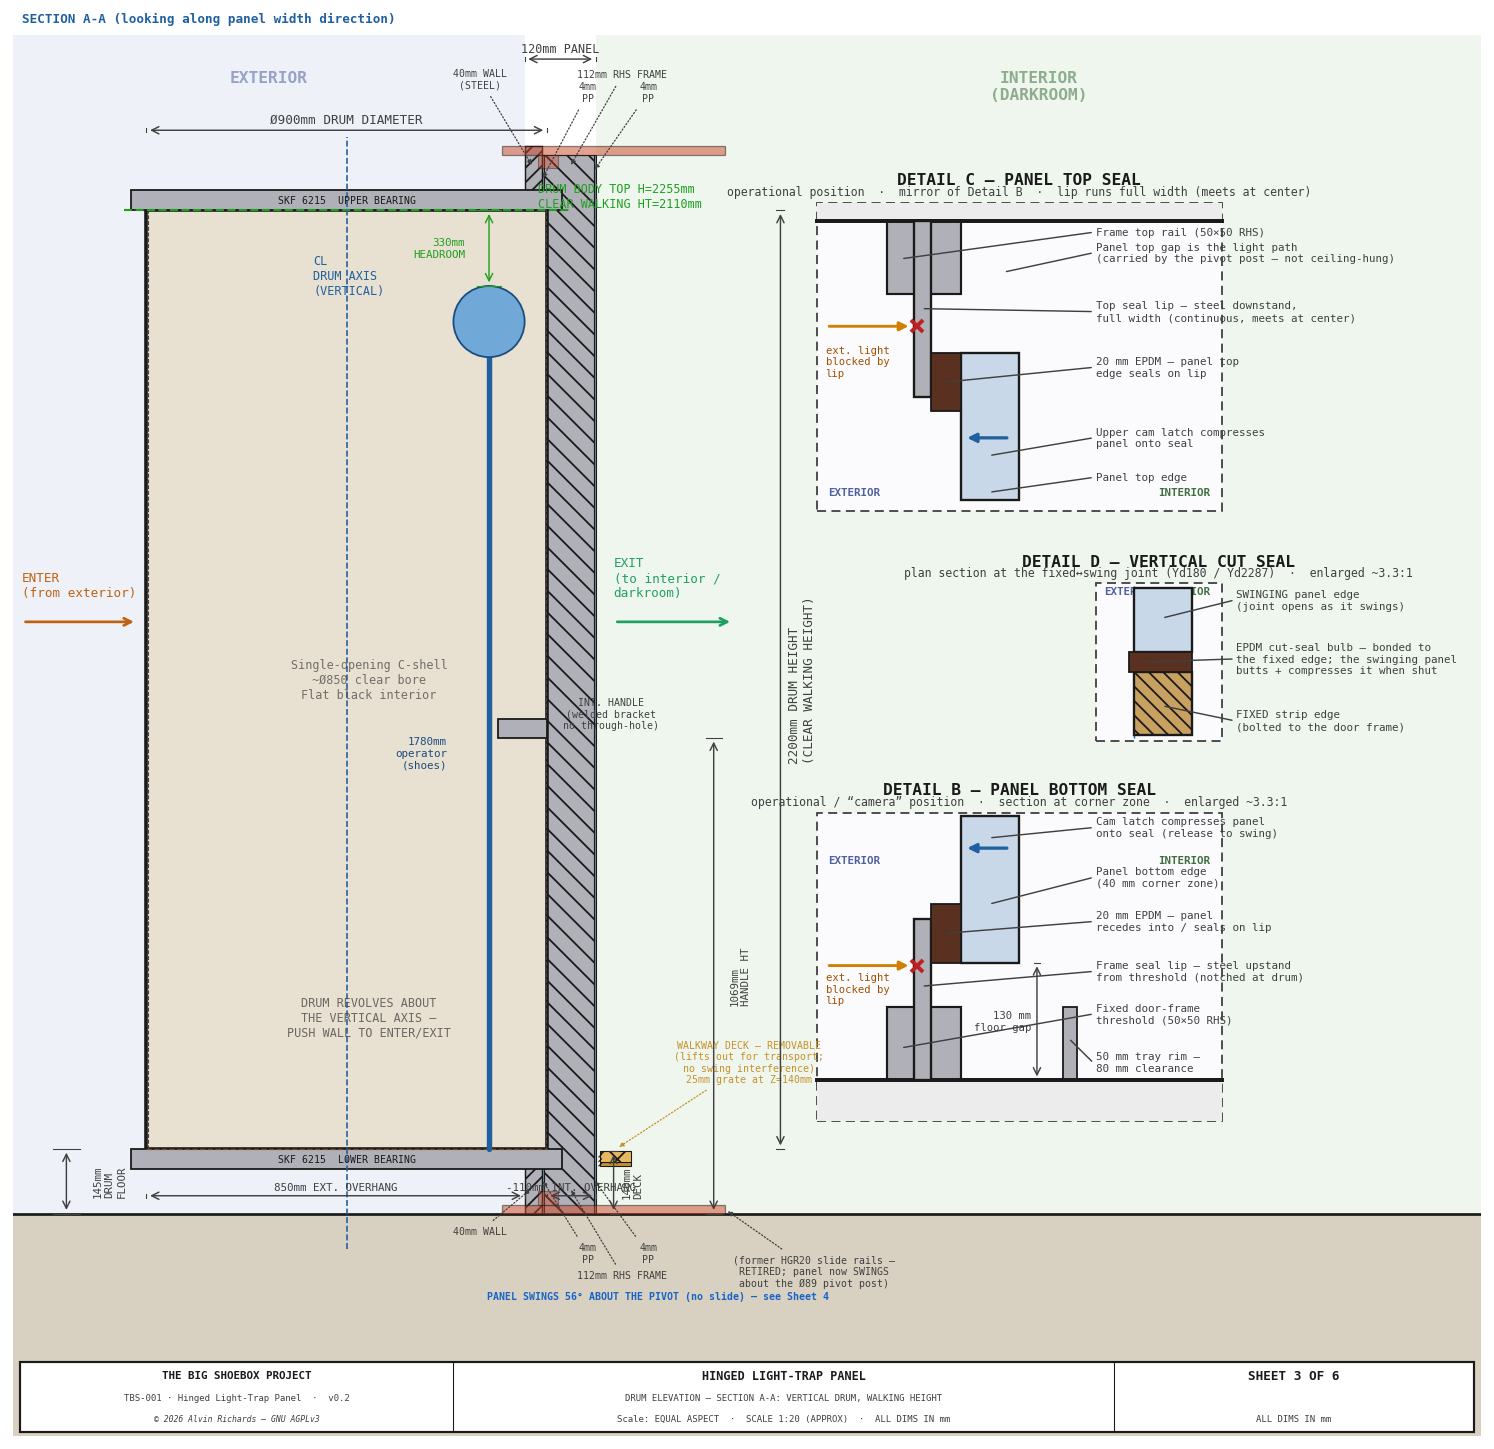
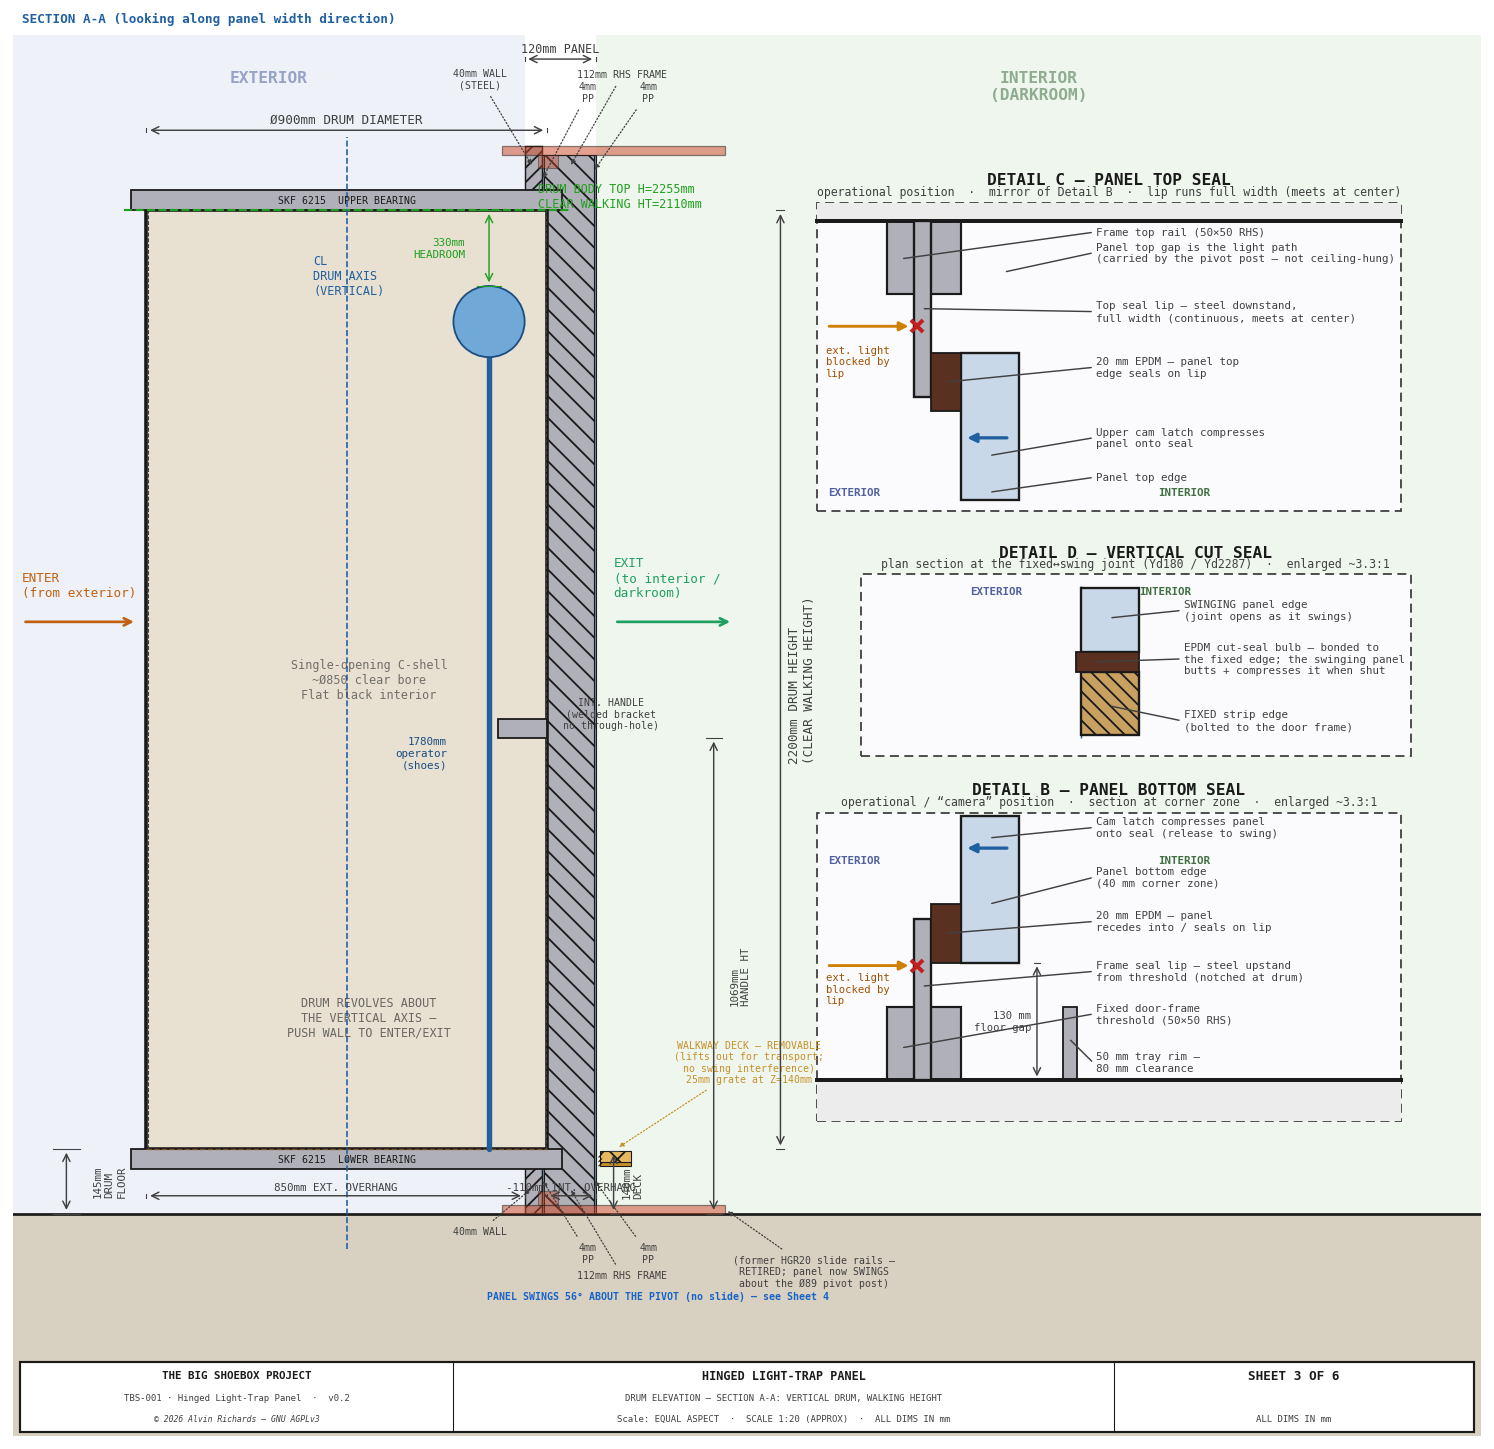
Tidy labels

Changed region(s): [[0.585, 0.3727, 0.9545, 0.559], [0.5542, 0.1242, 0.9237, 0.1553]]

diff --git a/src/generators/generate_hingepanel_diagram.py b/src/generators/generate_hingepanel_diagram.py
@@ -244,7 +244,7 @@ def sheet1():
     PIVOT_PX = PW + 35    # far-edge pivot post (just past the panel right edge)
     ax.add_patch(Rectangle((PIVOT_PX - 20, 0), 40, PH,
                             fc="#5A5AA0", ec=C_OUT, lw=1.2, zorder=3, alpha=0.85))
-    leader(ax, (PIVOT_PX + 20, PH * 0.55), (PIVOT_PX + 225, PH / 2),
+    leader(ax, (PIVOT_PX + 20, PH * 0.55), (PIVOT_PX + 250, PH / 2),
            "PIVOT POST\nØ89 CHS\n(vertical swing axis)",
            col="#5A5AA0", fs=6, fw="bold")
     # swing direction arc on the near (left) side
@@ -315,7 +315,7 @@ def sheet1():
     # Panel width
     draw_dim_h(ax, 0, PW, PH + 200, f"{PW}mm  (CONTAINER INTERIOR WIDTH)", offset=20, fs=7, font=FONT)
     # Panel height
-    draw_dim_v(ax, PW + 75, 0, PH, f"{PH}mm", offset=-25, fs=7, right=True, font=FONT)
+    draw_dim_v(ax, PW + 75, 0, PH, f"{PH}mm", offset=55, fs=7, right=True, font=FONT)
     # Drum diameter
     draw_dim_h(ax, DX, DX + DRUM_D, DY_TOP + 170, f"Ø{DRUM_D}mm DRUM", offset=30, fs=7, font=FONT)    # Drum clear height
     draw_dim_v(ax, DX - 200, DY_BOT, DY_TOP, f"{DRUM_H}mm CLEAR HEIGHT", offset=45, fs=7, right=True, font=FONT)
@@ -1125,7 +1125,7 @@ def sheet3():
     def DX(d): return ox + k * d
     def DY(h): return oy + k * h
 
-    bx0, bx1 = DX(-98), DX(178)
+    bx0, bx1 = DX(-98), DX(300)
     by0, by1 = DY(-28), DY(182)
     ax.add_patch(Rectangle((bx0, by0), bx1 - bx0, by1 - by0,
                            fc="#FBFBFD", ec=C_DIM, lw=1.0, ls=(0, (5, 3)), zorder=2))
@@ -1198,7 +1198,7 @@ def sheet3():
     def CX(d): return ox2 + k * d         # depth (mm) → sheet x  (exterior negative)
     def CY(hh): return oy2 + k * hh       # height about panel-top edge (h=0) → sheet y
 
-    cbx0, cbx1 = CX(-98), CX(178)
+    cbx0, cbx1 = CX(-98), CX(300)
     cby0, cby1 = CY(-108), CY(102)
     ax.add_patch(Rectangle((cbx0, cby0), cbx1 - cbx0, cby1 - cby0,
                            fc="#FBFBFD", ec=C_DIM, lw=1.0, ls=(0, (5, 3)), zorder=2))
@@ -1257,12 +1257,16 @@ def sheet3():
     # fixed strip's edge: the joint seals when shut (camera mode) and opens as the
     # panel swings. Plan section: depth X horizontal, Yd vertical (cut at yr=0).
     # ══════════════════════════════════════════════════════════════════════════
-    odx, ody = 1369, 1240   # right border aligned with Details C/B (DDX(60)=1567≈bx1/cbx1);
+    odx, ody = 1250, 1240   # right border aligned with Details C/B (DDX(60)=1567≈bx1/cbx1);
                             # ody keeps it vertically between Details C (above) and B (below)
     def DDX(x): return odx + k * x          # panel depth (mm) → sheet x (exterior negative)
     def DDY(yr): return ody + k * yr        # Yd about the cut (yr=0) → sheet y
-    dbx0, dbx1 = DDX(-26), DDX(60)
-    dby0, dby1 = DDY(-54), DDY(54)
+    dbx0, dbx1 = DDX(-150), DDX(225)
+    dby0, dby1 = DDY(-64), DDY(60)
+
+#         cbx0, cbx1 = CX(-98), CX(300)
+#     cby0, cby1 = CY(-108), CY(102)
+
     ax.add_patch(Rectangle((dbx0, dby0), dbx1 - dbx0, dby1 - dby0,
                            fc="#FBFBFD", ec=C_DIM, lw=1.0, ls=(0, (5, 3)), zorder=2))
     ax.text((dbx0 + dbx1) / 2, dby1 + 30, "DETAIL D — VERTICAL CUT SEAL",
@@ -1270,9 +1274,9 @@ def sheet3():
     ax.text((dbx0 + dbx1) / 2, dby1 + 8,
             "plan section at the fixed↔swing joint (Yd180 / Yd2287)  ·  enlarged ~3.3:1",
             ha="center", va="bottom", fontsize=6.4, color=C_DIM, **FONT)
-    ax.text(DDX(-20), DDY(48), "EXTERIOR", fontsize=6, color="#5060A0",
+    ax.text(DDX(-75), DDY(48), "EXTERIOR", fontsize=6, color="#5060A0",
             ha="left", va="center", fontweight="bold", **FONT)
-    ax.text(DDX(52), DDY(48), "INTERIOR", fontsize=6, color="#407040",
+    ax.text(DDX(75), DDY(48), "INTERIOR", fontsize=6, color="#407040",
             ha="right", va="center", fontweight="bold", **FONT)
     # fixed strip edge (lower) + EPDM cut bulb (centre) + swinging panel edge (upper)
     ax.add_patch(Rectangle((DDX(0), DDY(-50)), k * 40, k * 43, fc="#C8A060", ec=C_OUT,
@@ -1289,7 +1293,7 @@ def sheet3():
         ax.text(tx, ty, text, fontsize=6.0, color=C_DIM, ha="left", va="center", **FONT)
     ddlbl((DDX(20), DDY(-30)), DDY(-40), "FIXED strip edge\n(bolted to the door frame)")
     ddlbl((DDX(8), DDY(0)), DDY(2), "EPDM cut-seal bulb — bonded to\nthe fixed edge; the swinging panel\nbutts + compresses it when shut")
-    ddlbl((DDX(20), DDY(30)), DDY(42), "SWINGING panel edge\n(joint opens as it swings)")
+    ddlbl((DDX(20), DDY(30)), DDY(35), "SWINGING panel edge\n(joint opens as it swings)")
 
     # ── Title block (portrait sheet — taller box, smaller fonts, clipped) ──────
     title_block(ax, "SHEET 3 OF 6",
